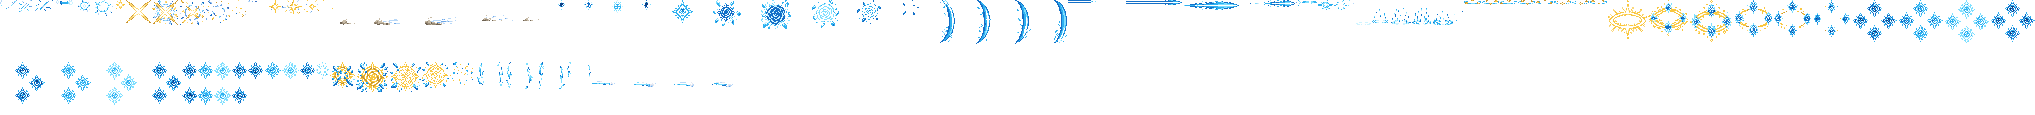
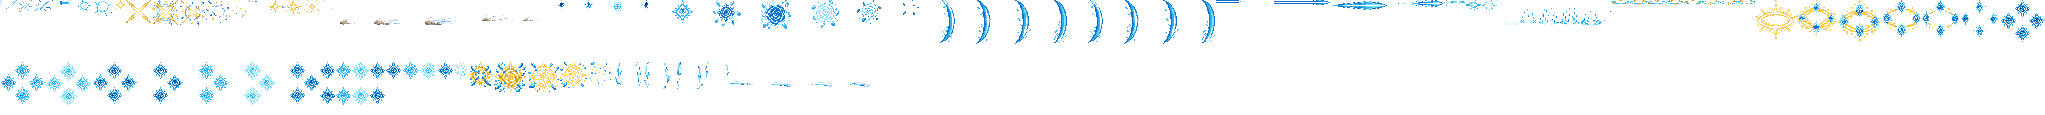
Fiora: the parry crescent mirrors with her (a caster picture, not a buff's)
The crescent sat 17 px in front of her as the parry buff's picture, and a
buff's picture is not mirrored when its unit faces left: casting W leftward
(the user: "W格挡会和剑的位置不一致", from the upper half downward) put it
behind her, away from the blade. It is now a CasterViewEffect with is_follow
played on W's cast (mirrored with her facing), its tag the 4-frame loop twice
(750 ms = the 45-tick parry). champion-data notes that buff pictures do not
mirror.

diff --git a/tools/art/import_fiora.py b/tools/art/import_fiora.py
@@ -28,7 +28,8 @@ dust and the speed lines on their lowest row over all frames, across at their pu
 The second step places every cell by its anchor on the unit and times it by the kit (60 ticks a second): a hit on the
 chest, the vital beside it, the stun over the crown, R's crests round the waist, the ground pieces on the soles'
 row; the vital mark and R's crests in 20-tick pieces (the kit replays them every 20 ticks while they last), the
-challenge over the 22 ticks before the first of them, the thrust inside its line's 11 ticks, the stun over its 1 s,
+challenge over the 22 ticks before the first of them, the parry over its 45 ticks (a caster picture played once:
+the loop twice), the thrust inside its line's 11 ticks, the stun over its 1 s,
 the victory zone over its 3 s (opening 1-2, the loop 3-6 six times, fading 7-8). Writes
 league/effects/league_fiora_fx and league_fiora_big (r_zone).
 """
@@ -299,7 +300,7 @@ FX = {
         "q_dash": [("q_dash", range(5), FEET, [70] * 5)],
         "vital_mark": [("vital_mark", range(4), VITAL, PIECE)],
         "vital_hit": [("vital_hit", range(6), VITAL, [60] * 6)],
-        "w_parry": [("w_parry", range(4), PARRY, [100] * 4)],
+        "w_parry": [("w_parry", [0, 1, 2, 3] * 2, PARRY, [100] * 7 + [50])],
         "w_line": [("w_line", range(4), (0, 0), [33, 50, 50, 50])],
         "w_hit": [("w_hit", range(5), HIT, [50] * 5)],
         "w_slow": [("w_slow", range(6), GROUND, [80] * 6)],

diff --git a/README.md b/README.md
@@ -1334,7 +1334,7 @@ python tools/art/preview_fiora.py
 - 动作参考（`poses.json`）：镜头 yaw 45、pitch 25，不镜像，头 2.3、腿 0.8、头发 0.6，细剑（`Weapon`）放大 2 倍、贴在右手上，高度 40，120×112 的格子。待机 `Fiora_Idle1`，移动 `fiora_runwalk`（8 帧 × 114 ms，平地，头保持待机时的样子），普攻 `fiora_attack1`，暴击 `fiora_crit`，Q `fiora_spell1` 接 `fiora_crit`，W `fiora_spell2_in`（3 帧 × 250 ms 招架）接 `fiora_spell2`（4 帧 × 80 ms 刺出），R 用致意 `fiora_taunt`（50/50/60/70/70 ms，共 18 tick），受击取 `fiora_death` 开头和待机混合，死亡 `fiora_death`。
 - 动作：Codex 按参考帧画了 9 条（每帧贴定稿的头）。移动的第一版 8 帧两条腿一直是同一条在前（用户选"给 Codex 返修走路"），返修包附一张指引图：英雄联盟的原版走路，近侧腿涂橙、远侧腿涂蓝；返修只改髋部以下（第 81–97 行）：第 1–3 帧近侧腿着地在前，第 5–7 帧远侧腿在前，第 3–4、7–8 帧两腿在身下交错。
 - 导入：待机 6 帧用定稿，第 3–5 帧从第 8 行（靴口）往下沉一格呼吸（`BOB`）；按眼睛的青色定头的位置（`EYES`）。Codex 按英雄联盟的站位放各条动作，头大约在站位点上方，而定稿的待机按脚的中间站，差 9 列，待机的站位点右移 9 列（`fiora_cells.json`）。描边补齐（`COMPLETE`）时，深青的腿（亮度约 58）和酒红的披风（约 44）不算描边，默认的阈值 70 会让 Q 的几帧只有 83–89% 的边是黑的，所以剑姬的阈值设为 40（`DARK`），补齐后 98–100%（细剑那一格裸线不算）。头像截取点 (1, −39)。待机最高点 −28，按规则不用设 `banpick_center`（锐雯、薇恩、阿卡丽也是 −28），但平举的细剑会伸出选人卡片的右边，设 (0, −11) 让卡片把它裁在画布里（剑尖少一截）。
-- 特效用 Codex 画的 18 张（107 帧），交的是生图原稿（半透明边、颜色没锁色板、蓝色和金色的光外面包着一圈最深色）：`import_fiora.py --raw` 按交付清单切帧，每个游戏像素取它覆盖的原图像素的多数色、有三分之一不透明才画，颜色只吸到这张特效要的色阶（钢色、破绽蓝、金色、治疗绿、尘土），最深的蓝、金色在边上的一格去掉（旁边有两格更亮的撑住形状时）或提亮一级。按技能定大小：命中 16–20 px，暴击 26 px，破绽 14 px 高、刺中 30 px，R 刺中 32 px，招架月牙 44 px 高，W 剑气 56 px 长（直线 55000），减速寒气 20 px 宽，眩晕星 18 px，胜利之地 72 px 宽（半径 35000），夺命连刺的光线格子 36 px 宽（绕着她 40 px 的身体），速度线 26 px，尘土 32 px。W 剑气按白色的芯（第 71 行）上下镜像成严格对称（游戏会把它转到刺的方向）；招架月牙在 4 帧里左右漂了 35 个原图像素，按月牙最右边对齐；减速寒气的圈在第 4、5 帧往上跑，按圈最宽的几行对齐；R 起手的四枚破绽画得比常驻的散开，横向压到 72/84、下移 4 个原图像素，起手画完正好接上常驻的四枚（常驻的第一段因此从第 22 tick 开始）；刺中破绽的蓝色玫瑰缩到 30 px 后花瓣线比一格还细，底色从深蓝提亮一级。时长按技能：破绽和剩下的破绽每段 20 tick（技能每 20 tick 播一段），R 起手 22 tick，W 剑气 11 tick（直线存在的时间），眩晕星 1 秒，胜利之地 3 秒（1–2 帧展开，3–6 帧循环 6 次，7–8 帧散去）。
+- 特效用 Codex 画的 18 张（107 帧），交的是生图原稿（半透明边、颜色没锁色板、蓝色和金色的光外面包着一圈最深色）：`import_fiora.py --raw` 按交付清单切帧，每个游戏像素取它覆盖的原图像素的多数色、有三分之一不透明才画，颜色只吸到这张特效要的色阶（钢色、破绽蓝、金色、治疗绿、尘土），最深的蓝、金色在边上的一格去掉（旁边有两格更亮的撑住形状时）或提亮一级。按技能定大小：命中 16–20 px，暴击 26 px，破绽 14 px 高、刺中 30 px，R 刺中 32 px，招架月牙 44 px 高，W 剑气 56 px 长（直线 55000），减速寒气 20 px 宽，眩晕星 18 px，胜利之地 72 px 宽（半径 35000），夺命连刺的光线格子 36 px 宽（绕着她 40 px 的身体），速度线 26 px，尘土 32 px。W 剑气按白色的芯（第 71 行）上下镜像成严格对称（游戏会把它转到刺的方向）；招架月牙在 4 帧里左右漂了 35 个原图像素，按月牙最右边对齐；减速寒气的圈在第 4、5 帧往上跑，按圈最宽的几行对齐；R 起手的四枚破绽画得比常驻的散开，横向压到 72/84、下移 4 个原图像素，起手画完正好接上常驻的四枚（常驻的第一段因此从第 22 tick 开始）；刺中破绽的蓝色玫瑰缩到 30 px 后花瓣线比一格还细，底色从深蓝提亮一级。招架月牙原来挂在招架 buff 上，buff 的画面不随朝向镜像，她朝左出 W 时月牙跑到身后、和剑对不上（用户：「W格挡会和剑的位置不一致」），改成 W 出手时播的施法者画面（跟着她走、朝左时镜像，4 帧循环两遍共 0.75 秒）。时长按技能：破绽和剩下的破绽每段 20 tick（技能每 20 tick 播一段），R 起手 22 tick，W 剑气 11 tick（直线存在的时间），眩晕星 1 秒，胜利之地 3 秒（1–2 帧展开，3–6 帧循环 6 次，7–8 帧散去）。
 - 出手时刻和动画对齐：普攻第 3 帧（第 9 tick），Q 在冲到目标身上时刺中（`MoveToTarget` 到达），W 招架 45 tick 后第 47 tick 刺出，R 致意 18 tick。
 
 逐帧预览：[`docs/preview/league_fiora_frames.png`](docs/preview/league_fiora_frames.png)，特效：[`docs/preview/league_fiora_effects.png`](docs/preview/league_fiora_effects.png)。

diff --git a/.claude/skills/tfm2-hero-mod/references/champion-data.md b/.claude/skills/tfm2-hero-mod/references/champion-data.md
@@ -591,6 +591,10 @@ the same champion file.
   faces left (the base gunner's backward-run dust is drawn only behind him), and stays where it was
   played unless `is_follow`. An `Animation` plays its tag once, so a view that must stand for
   seconds lists its loop frames again (a 4 s loop of 100 ms frames is 40 frames).
+  A buff's picture (`view_buffs`) is not mirrored that way: league_fiora's parry crescent, drawn 17 px in front
+  of her as the parry buff's picture, stood behind her whenever she faced left (the user, 2026-10-01: "W格挡会和
+  剑的位置不一致"). A picture with a front and a back goes on a `CasterViewEffect` with `is_follow`, played with
+  the buff, its tag listing the loop for the buff's duration (her crescent: 4 frames twice, 750 ms = 45 ticks).
   A thing with a top and a bottom that flies every way (league_thresh's lantern) is laid along its flight
   and mirrored top to bottom, so every turn of it looks the same (art-spec).
 - A projectile's picture has one length, but its frames can follow the flight: an `Animated` view with
